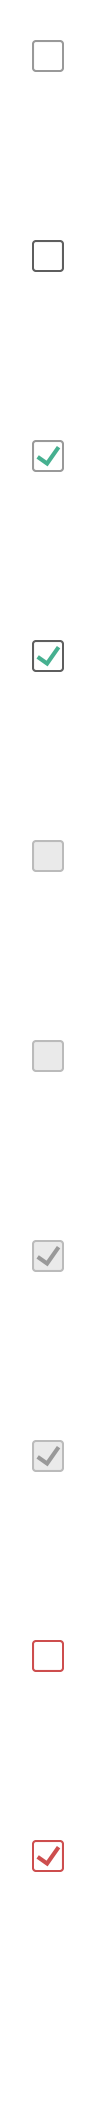
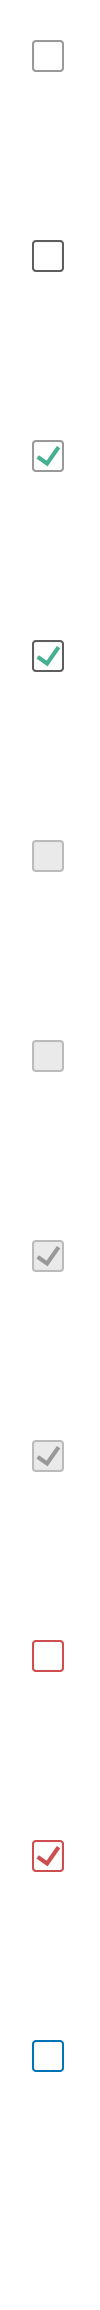
:bug: Changes background for focused checkbox in login form following the 508 Compliance Resolves OKTA-104129

diff --git a/assets/sass/common/shared/o-forms/_o-form.scss b/assets/sass/common/shared/o-forms/_o-form.scss
@@ -839,7 +839,6 @@ only screen and (min-resolution: 2dppx) {
 }
 
 .custom-checkbox label.hover,
-.custom-checkbox label.focus,
 .custom-radio label.hover,
 .custom-radio label.focus {
   background-position: -16px -113px;
@@ -853,6 +852,14 @@ only screen and (min-resolution: 2dppx) {
 .custom-checkbox label.checked.hover,
 .custom-checkbox label.checked.focus {
   background-position: -16px -313px;
+}
+
+.custom-checkbox label.focus {
+  background-position: -16px -1013px;
+}
+
+.custom-radio label.focus::before {
+  background-position: -16px -1020px;
 }
 
 /* Label top */
